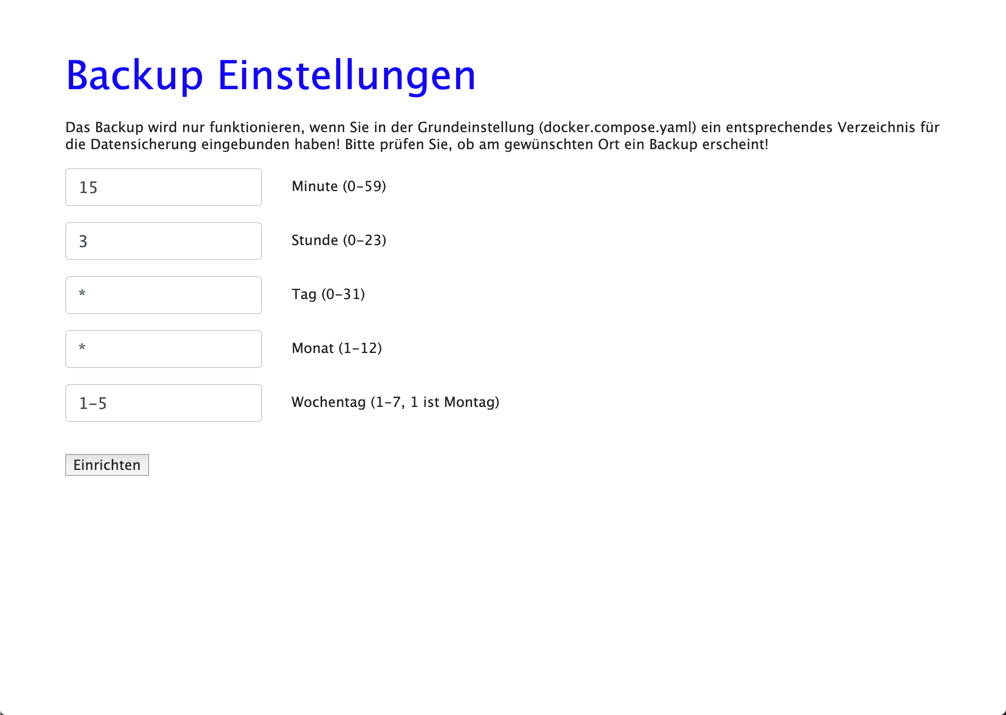
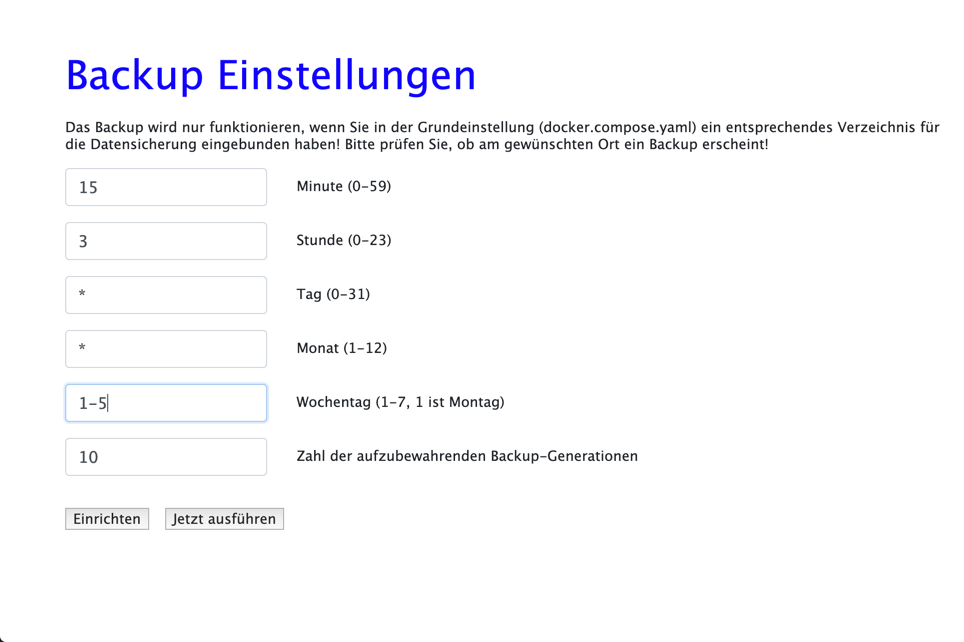
det

diff --git a/appserver/site/routes/backup.js b/appserver/site/routes/backup.js
@@ -26,20 +26,24 @@ router.post("/exec", async (req, res) => {
     port: PORT,
     password: cfg.get("dbrootpwd")
   })
-  const dirs = ["/mnt/elexisdb", "/mnt/lucindadata","/mnt/lucindabase", "/mnt/webelexisdata", "/mnt/pacsdata"]
-  const archie=new archiver("/backup",parseInt(req.body.numbackups))
+  const dirs = ["/mnt/elexisdb", "/mnt/lucindadata", "/mnt/lucindabase", "/mnt/webelexisdata", "/mnt/pacsdata"]
+  const archie = new archiver("/backup", parseInt(req.body.numbackups))
   if (req.body.button == "setup") {
     const rule = req.body.minute + " " + req.body.hour + " " + req.body.day + " " + req.body.month + " " + req.body.weekday
-    const ni = archie.schedule(rule, dirs)
-    res.render('success', { header: "Backup konfiguriert", body: "Nächste Ausführung: " + ni.toString() })
+    try {
+      const ni = archie.schedule(rule, dirs)
+      res.render('success', { header: "Backup konfiguriert", body: "Nächste Ausführung: " + ni.toString() })
+    } catch (err) {
+      res.render("error", { message: "Fehler beim Einrichten", error: err })
+    }
   } else {
     try {
       for (const dir of dirs) {
         log.info("backing up " + dir)
         await archie.pack(dir)
       }
-      res.render('success', { header: "Backup ausgeführt", body: "Keine Fehler"})
- 
+      res.render('success', { header: "Backup ausgeführt", body: "Keine Fehler" })
+
     } catch (err) {
       res.render("error", { message: "Fehler beim Backup", error: err })
 

diff --git a/appserver/site/routes/index.js b/appserver/site/routes/index.js
@@ -13,7 +13,7 @@ router.get("/", function(req, res, next) {
   const hostname = req.hostname
   const dbname = cfg.get("dbname") || "elexisoob"
   const username = cfg.get("dbuser") || "(den Namen für die Datenbankverbindung)"
-  const password = cfg.get("dbpwd") || "(das Passwort für die Datenbakverbindung)"
+  const password = cfg.get("dbpwd") || "(das Passwort für die Datenbankverbindung)"
   res.render("index", {
     title: "Elexis Out-Of-The-Box",
     hostname,

diff --git a/appserver/site/tests/elxcrypt.spec.js b/appserver/site/tests/elxcrypt.spec.js
@@ -1,0 +1,11 @@
+const chai = require('chai')
+chai.should()
+const encrypt=require('../utils/elxcrypt')
+
+describe("elxcrypt", () => {
+    it ("creates a hash from a text and a salt",()=>{
+        const {hashed,salt}=encrypt('administrator','1254bb9a05856b9e')
+        hashed.should.equal('b94a0b6fc7be97e0a1585ac85e814d3852668968')
+        salt.should.equal('1254bb9a05856b9e')
+    })
+})

diff --git a/appserver/site/public/doc/manage.md b/appserver/site/public/doc/manage.md
@@ -47,7 +47,21 @@ Wählen Sie im Elexia-OOB Hauptbildschirm im Feld "Verwaltung" den Punkt "Dateni
 
 ![](../images/manage_01.png)
 
-Die Angaben, die Sie hier eintragem können, sind im "crontab" Stil. Die Einstellungen in diesem Beispielbild bedwuten: Es wird Montag bis Freitag jede Nacht ab 03:15 Uhr ein Backup erstellt. Zum  Verständnis, wo dieses Backup landet, und was man dann damit tun kann, ist leider ein Verständnis der Docker-Interna notwendig. Standardmässig gehen die Backups in das Volume 'backup', das sich auf Linux Conputern in `/var/lib/docker/volumes/elexis-oob_backup` befindet. Sie können durch enstprechende Änderung der docker-compose.yaml ein anderes Backup-Verzeichnis anlegen. Wenn Sie zum Beispiel Backups auf das Laufwerk /mnt/grosseplatte schreiben wollen, dann müssten Sie den Abschnitt:
+Die Angaben, die Sie hier eintragem können, sind im "crontab" Stil. Die Einstellungen in diesem Beispielbild bedeuten: Es wird Montag bis Freitag jede Nacht ab 03:15 Uhr ein Backup erstellt. Für jedes der Felder können Sie folgende Ausdrücke angeben:
+
+* Ein Stern, **\***: Jede. Also jede Minute, jede Stunde, jeden Tag. 
+* Eine Zahl, z.B. **5**: Immer die 5. Minuten oder die 5. Stunde, der 5. des Monats, jeden Mai oder jeden Donnerstag. Achrung: Immer die 5. Minute ist *nicht* dasselbe wie "alle 5 Minuten". Immer die 5. Minute bedeutet: 5 nach Mitternacht, 5 nach 1, 5 nachj 2 usw.
+* Mehrere durch Komma getrennte Zahlen, z.B. **1,3,4** Jeweils die erste,dritte und vierte Minute/Stunde/Tag/Monat/Wochentag.
+* Zwei durch Bindestrich verbundene Zahlen, z.B. **1-5** würde bei der Angabe zum Tag z.B. bedeuten: Jeden Tag Montag bis Freitag.
+* Stern und Schrägstrich, z.B. **\*/10** meint "alle 10", also etwa alle 10 Minuten, alle 10 Stunden usw.
+
+Dies sollte für den Alltag genügen. Falls Sie es noch genauer wissen wollen, können Sie bei Seiten, die sich mit cron oder der [crontab](https://www.linuxwiki.de/crontab) befassen, weiter lesen.
+
+ALs letztes Feld sollten Sie noch angeben, wie viele Generationen vpn Backups aufbewahrt werden sollen. Der Platz auf Ihrem primören Backupmedium wird begrenzt sein, und diese Datensicherungen können mit der Zeit sehr gross werden. Geben Sie hier z.B. 10 an, um jeweils nur die 10 neuesten Sicherungen aufzubewahren (zumindest einige von den Älteren sollten Sie zu diesem Zeitpunkt schon durch ein Stufe-2-Backuip irgendwo anders hin gesichert haben).
+
+Beachten Sie, dass von jedem Datentyp die genannte Zahl aufbewahrt wird. Also 10 Datenbanksicherungen, 10 Lucinda-Sicherungen, 10 PACS-Sicherungen usw.
+
+Zum  Verständnis, *wo* diese Backups eigentlich landen, und was man dann damit tun kann, ist leider ein Verständnis der Docker-Interna notwendig. Standardmässig gehen die Backups in das Volume 'backup', das sich auf Linux Conputern in `/var/lib/docker/volumes/elexis-oob_backup` befindet. Sie können durch enstprechende Änderung der docker-compose.yaml ein anderes Backup-Verzeichnis anlegen. Wenn Sie zum Beispiel Backups auf das Laufwerk /mnt/grosseplatte schreiben wollen, dann müssten Sie den Abschnitt:
 
 ````yaml
 appserver:
